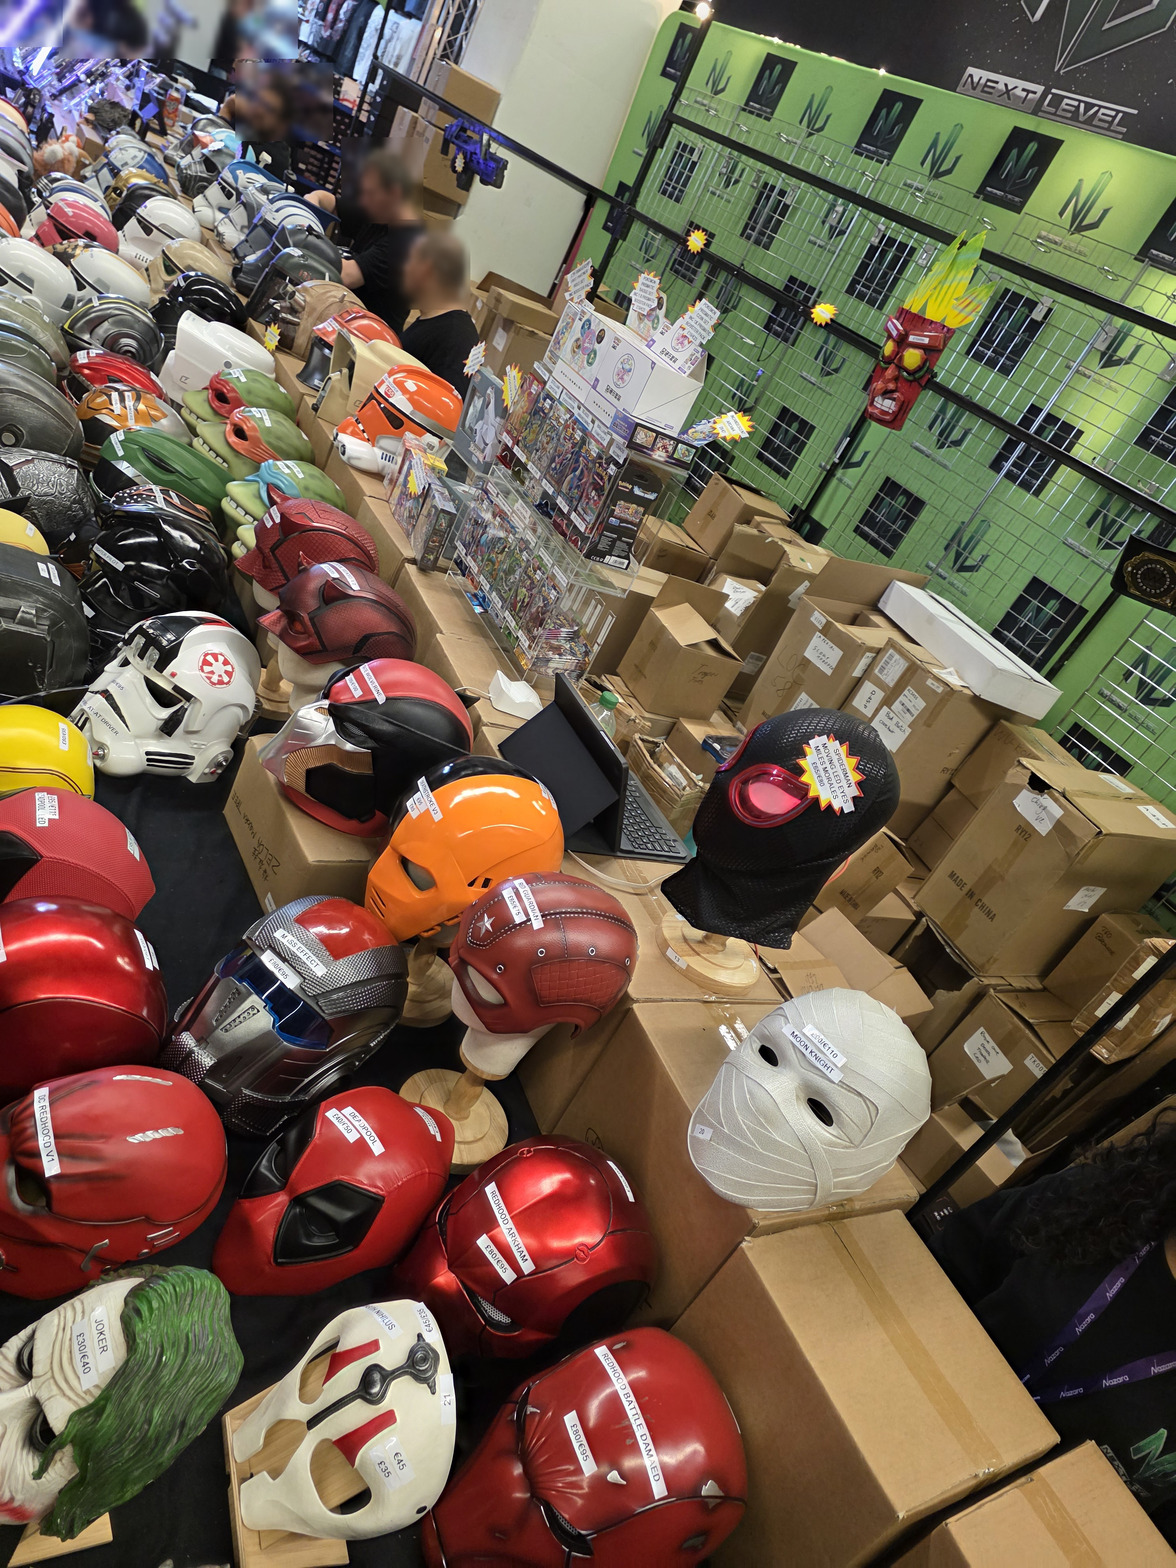
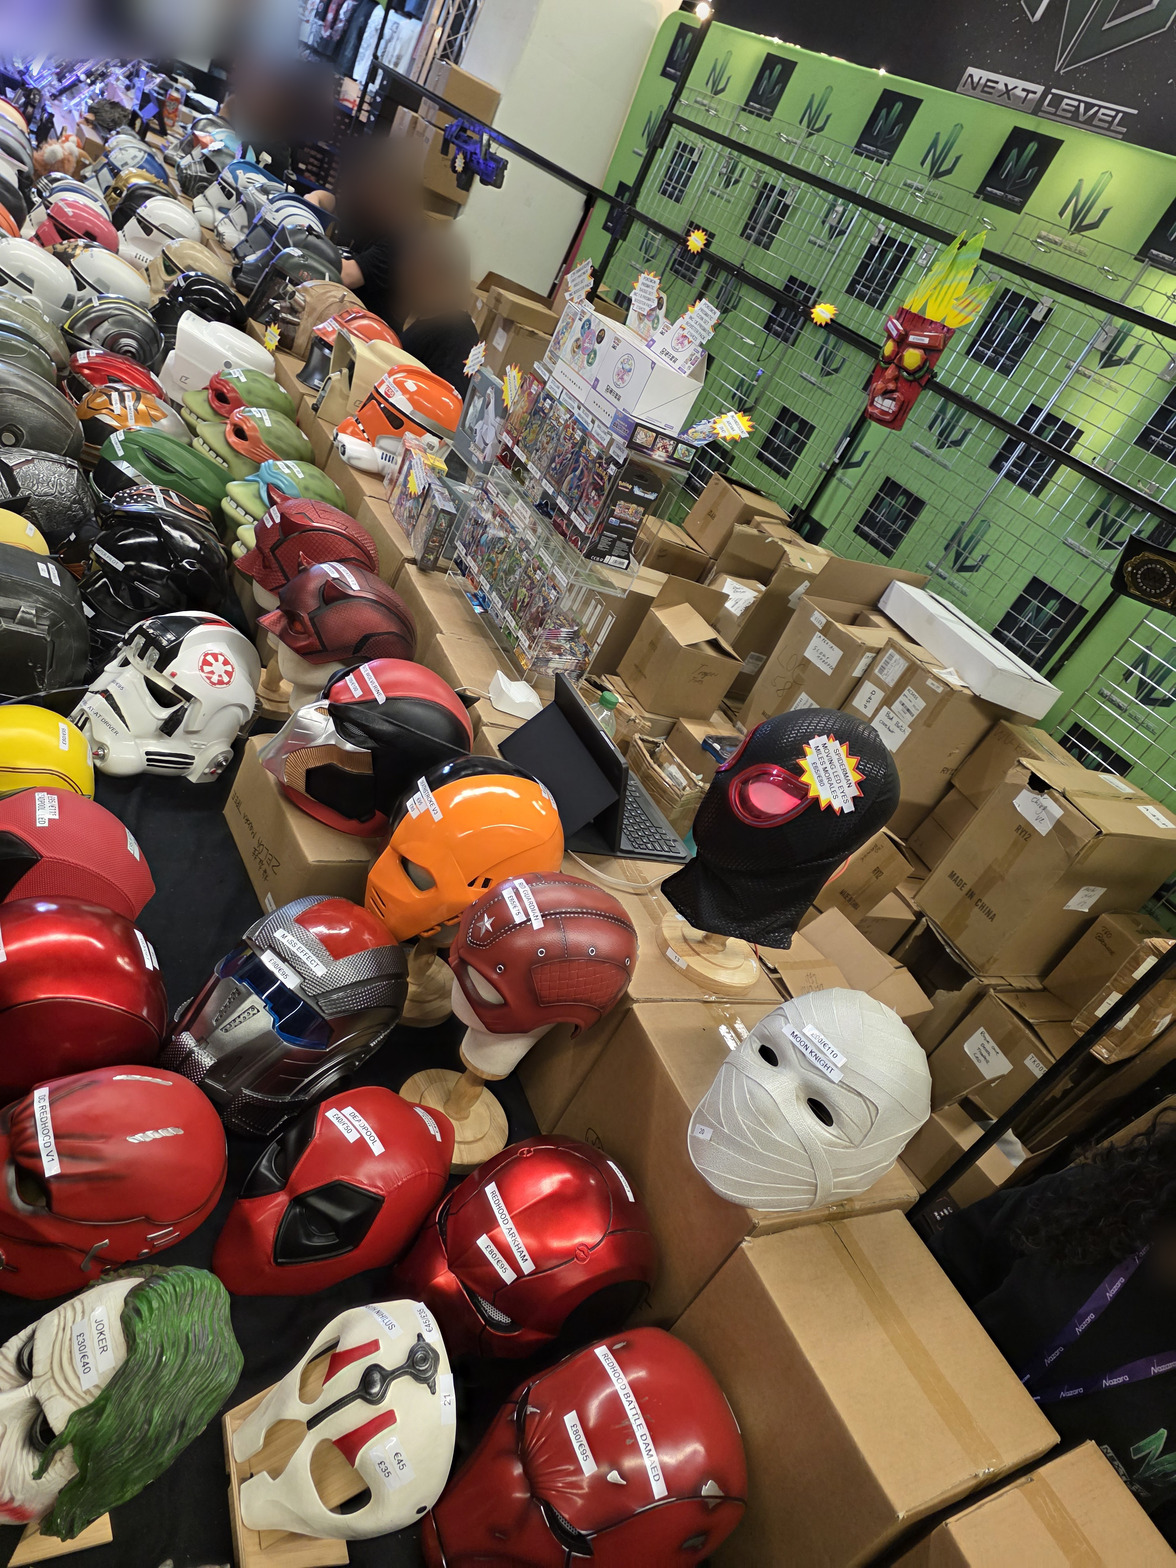
Align with the iX article: partial token log, one disqualified run, image B
- Qwen3.8-27B on Moorhuhn: the server log covers only the first 3.2 hours of
  a run of about 9 hours (31 Aug, 16:20 to 19:32). Its 336,107 tokens are that
  part only. The VS Code chat reaches 21:12 and puts the count at over 390,000
  by then; the total was not recorded. runs.json gets tokens_complete: false
  and a note, the README tables say so next to the number.
- Qwen3.6-27B on Moorhuhn is disqualified: the prompt was sent once more with
  a hint on two bugs, which the test rules do not allow. It stays as a
  reference, its speed values are valid. Finding 1 still showed its old
  proposal of 20 points instead of the confirmed 16.
- Image B: the faces of the people at the stand are blurred further. Only the
  JPEG blocks around the faces were replaced, 3.9 percent of the image; every
  other block is unchanged, so the price tags are pixel-identical and earlier
  results stay comparable. New size and SHA-256 in harness/bilder/README.md.

Changed region(s): [[0.0, 0.0, 0.398, 0.2188], [0.9796, 0.7812, 1.0, 0.8125]]

diff --git a/scripts/make_chart.py b/scripts/make_chart.py
@@ -43,7 +43,7 @@ THEMES = {
 LABELS = {
     # Below its point: above it run the Sonnet 5 reference line and the end of the Pareto front.
     "qwen38-27b-q4xl-moorhuhn-r9700":       (  8,  30, "end",    "Qwen3.8-27B Q4_XL"),
-    "qwen36-27b-q6-moorhuhn-r9700":         (-12,   5, "end",    "Qwen3.6-27B Q6"),
+    "qwen36-27b-q6-moorhuhn-r9700":         (-12,   5, "end",    "Qwen3.6-27B Q6 · disqualified"),
     "qwen38-27b-q6-clairobscure-r9700":     (-12,   5, "end",    "Qwen3.8-27B Q6"),
     # High enough that the second line clears the point.
     "qwen38-flashnext-moorhuhn-evox2":      (  0, -30, "middle", "Qwen3.8-Flash-Next"),

diff --git a/README.md b/README.md
@@ -249,7 +249,7 @@ tokens or more in that log.
 |---|---|--:|--:|--:|---|
 | **Radeon AI PRO R9700** | | | | | |
 | Qwen3.8-27B<br><sub>UD-Q4_K_XL</sub> | Moorhuhn | **33.69** | **31** ✓ | 11 | [log](evidence/logs/qwen38-27b-q4xl-moorhuhn-r9700.log) · [page](https://benchmark.securesight.ai/m/qwen38-27b/en?lauf=qwen38-27b-q4xl-moorhuhn-r9700) |
-| Qwen3.6-27B<br><sub>UD-Q6_K_XL</sub> | Moorhuhn | **33.45** | **16** ✓ | 0 | [log](evidence/logs/qwen36-27b-q6-moorhuhn-r9700.log) · [page](https://benchmark.securesight.ai/m/qwen36-27b/en?lauf=qwen36-27b-q6-moorhuhn-r9700) |
+| Qwen3.6-27B<br><sub>UD-Q6_K_XL · disqualified</sub> | Moorhuhn | **33.45** | **16** ✓ | 0 | [log](evidence/logs/qwen36-27b-q6-moorhuhn-r9700.log) · [page](https://benchmark.securesight.ai/m/qwen36-27b/en?lauf=qwen36-27b-q6-moorhuhn-r9700) |
 | Qwen3.8-27B<br><sub>UD-Q6_K_M</sub> | Clair Obscure | **26.30** | 28 | 0 | [log](evidence/logs/qwen38-27b-q6-clairobscur-r9700.log) · [page](https://benchmark.securesight.ai/m/qwen38-27b/en?lauf=qwen38-27b-q6-clairobscure-r9700) |
 | **AMD AI MAX 395 (AMD Halo)** | | | | | |
 | Qwen3.8-Flash-Next<br><sub>UD-Q4_K_XL</sub> | Moorhuhn | **21.76** | **34** ✓ | 10 | [log](evidence/logs/qwen38-flashnext-moorhuhn-evox2.log) · [page](https://benchmark.securesight.ai/m/qwen38-flash-next/en?lauf=qwen38-flashnext-moorhuhn-evox2) |
@@ -258,7 +258,7 @@ tokens or more in that log.
 | DeepSeek-V4-Flash-0731<br><sub>UD-IQ3_XXS</sub> | Clair Obscure | **7.02** | 16 | 0 | [log](evidence/logs/deepseek-v4-flash-clairobscur-halo.log) · [page](https://benchmark.securesight.ai/m/deepseek-v4-flash-0731/en?lauf=deepseek-v4-flash-clairobscure-evox2) |
 
 <sub><b>Decode</b> median in t/s · <b>Quality</b> rubric of four criteria with 10 points each (game feel, presentation, code quality, scope), ✓ confirmed, — not assessed yet, the others are proposals · <b>Tests</b> files named <code>*.test.*</code> in the delivered project · <b>page</b> the model page with video, playable build and the reason behind every rubric point.<br>
-The Qwen3.8-27B UD-Q4_K_XL log covers the first of two sessions. For the Flash-Next Clair Obscure run the run notes record an older MTP version, but its log shows no draft model being loaded and no draft acceptance line, so this log cannot show what MTP contributed. The Halogen run used another server on Linux, halogen-flash-server 0.6.3 with weights in W4B, and served two requests at a time: 268 of its 652 scored responses ran next to a second one.</sub>
+The Qwen3.8-27B UD-Q4_K_XL log covers only the first 3.2 hours of a run of about 9 hours (31 Aug, 16:20 to 19:32); the rest of the first session and the second session have no server log. Qwen3.6-27B on Moorhuhn is disqualified: the prompt was sent once more together with a hint on two bugs, which the test rules do not allow. It stays as a reference, and its speed values are valid. For the Flash-Next Clair Obscure run the run notes record an older MTP version, but its log shows no draft model being loaded and no draft acceptance line, so this log cannot show what MTP contributed. The Halogen run used another server on Linux, halogen-flash-server 0.6.3 with weights in W4B, and served two requests at a time: 268 of its 652 scored responses ran next to a second one.</sub>
 
 <details>
 <summary>Percentiles, prefill, largest prompt, tokens and GPU time per run</summary>
@@ -267,7 +267,7 @@ The Qwen3.8-27B UD-Q4_K_XL log covers the first of two sessions. For the Flash-N
 
 | Run | n | Decode p10 to p90 | Prefill | Largest prompt | Tokens | GPU min |
 |---|--:|--:|--:|--:|--:|--:|
-| Qwen3.8-27B UD-Q4_K_XL · Moorhuhn | 82 of 108 | 27.83 to 45.34 | 234.86 | 139,720 | 336,107 | 188.9 |
+| Qwen3.8-27B UD-Q4_K_XL · Moorhuhn | 82 of 108 | 27.83 to 45.34 | 234.86 | 139,720 | 336,107<br><sub>first 3.2 h only, over 390,000 by 21:12, total not recorded</sub> | 188.9 |
 | Qwen3.6-27B UD-Q6_K_XL · Moorhuhn | 221 of 409 | 29.02 to 38.25 | 152.71 | 43,238 | 196,543 | 139.1 |
 | Qwen3.8-27B UD-Q6_K_M · Clair Obscure | 30 of 35 | 15.55 to 34.22 | 159.40 | 180,396 | 119,627 | 114.5 |
 | Qwen3.8-Flash-Next · Moorhuhn | 346 of 459 | 17.15 to 26.28 | 77.63 | 69,985 | 786,506 | 798.8 |
@@ -379,7 +379,7 @@ and dodge on tight timing windows.
 <td width="50%" valign="top">
 <a href="https://benchmark.securesight.ai/spiel/qwen36-27b-q6-moorhuhn-r9700/"><img src="media/gif/moorhuhn-qwen36.gif" width="100%" alt="A 2D side scrolling shooter with parallax layers, built by Qwen3.6-27B"></a>
 <b>Moorhuhn</b> · Qwen3.6-27B UD-Q6_K_XL · R9700<br>
-<sub>39 files · 6,903 lines · no tests · 12 <code>fix_*</code> repair scripts · quality 16, confirmed<br>
+<sub>39 files · 6,903 lines · no tests · 12 <code>fix_*</code> repair scripts · quality 16, confirmed · disqualified<br>
 <a href="https://benchmark.securesight.ai/spiel/qwen36-27b-q6-moorhuhn-r9700/">Play</a> · <a href="https://benchmark.securesight.ai/m/qwen36-27b/en?lauf=qwen36-27b-q6-moorhuhn-r9700">Video</a> · <a href="benchmarks/qwen36-27b/moorhuhn-q6/">Source</a></sub>
 </td>
 <td width="50%" valign="top">
@@ -419,7 +419,7 @@ Two runs on the R9700 with the same Moorhuhn prompt:
 | Decode median | **33.69 t/s** | **33.45 t/s** |
 | Test files | 11 with 1,257 lines | none |
 | `fix_*` repair scripts in the project | none | 12 |
-| Quality | 31, confirmed | 20, proposal |
+| Quality | 31, confirmed | 16, confirmed, disqualified |
 
 Tokens per second did not tell these two apart, and they were entirely different afternoons.
 It is not a controlled experiment: model generation, quant, llama.cpp build and speculation

diff --git a/evidence/README.md b/evidence/README.md
@@ -46,7 +46,7 @@ stand at the top. It too carries no prompt text and no response text, only count
 
 | Run | Log | Decode median | n | Prefill median | Tokens, all responses | GPU time |
 |---|---|--:|--:|--:|--:|--:|
-| Qwen3.8-27B UD-Q4_K_XL · R9700 · Moorhuhn | [`qwen38-27b-q4xl-moorhuhn-r9700.log`](logs/qwen38-27b-q4xl-moorhuhn-r9700.log) | 33.69 t/s | 82 | 234.86 t/s | 336,107 | 188.9 min |
+| Qwen3.8-27B UD-Q4_K_XL · R9700 · Moorhuhn | [`qwen38-27b-q4xl-moorhuhn-r9700.log`](logs/qwen38-27b-q4xl-moorhuhn-r9700.log) | 33.69 t/s | 82 | 234.86 t/s | 336,107 (first 3.2 h of about 9 h only) | 188.9 min |
 | Qwen3.6-27B UD-Q6_K_XL · R9700 · Moorhuhn | [`qwen36-27b-q6-moorhuhn-r9700.log`](logs/qwen36-27b-q6-moorhuhn-r9700.log) | 33.45 t/s | 221 | 152.71 t/s | 196,543 | 139.1 min |
 | Qwen3.8-27B UD-Q6_K_M · R9700 · Clair Obscur | [`qwen38-27b-q6-clairobscur-r9700.log`](logs/qwen38-27b-q6-clairobscur-r9700.log) | 26.30 t/s | 30 | 159.40 t/s | 119,627 | 114.5 min |
 | Qwen3.8-Flash-Next UD-Q4_K_XL · AI MAX 395 · Moorhuhn | [`qwen38-flashnext-moorhuhn-evox2.log`](logs/qwen38-flashnext-moorhuhn-evox2.log) | 21.76 t/s | 346 | 77.63 t/s | 786,506 | 798.8 min |

diff --git a/harness/bilder/README.md b/harness/bilder/README.md
@@ -7,7 +7,12 @@ vergleichbar.
 | Datei | Pixel | Bytes | SHA-256 |
 |---|---|--:|---|
[3 lines of base64/hex data omitted]
+
+Seit dem 25.09.2026 sind auf Bild B die Gesichter der Standbesucher stärker unkenntlich gemacht.
+Ersetzt sind nur die 8 × 8 Pixel großen JPEG-Blöcke um die Gesichter, 3,9 Prozent des Bildes. Alle
+anderen Blöcke sind unverändert, die Preisschilder also pixelgleich. Die bis dahin veröffentlichten
+Bildtests liefen mit der vorigen Fassung (779505 Bytes, SHA-256 `6d647d04…`) und bleiben vergleichbar.
 
 Nicht verwenden: die verkleinerte Fassung von Bild B für die Webseite mit 675 × 900 Pixeln.
 Auf ihr sind die Preisschilder kaum lesbar, und die Ergebnisse sind nicht vergleichbar.

diff --git a/docs/messdaten-inventar.md b/docs/messdaten-inventar.md
@@ -37,7 +37,7 @@ echte Arbeit über viele Aufgaben statt `pp512`/`tg128` im Labor. Ausgewertet mi
 
 | Lauf | Hardware | Aufgabe | n | Decode Median | Spanne | Prefill Median (≥500 Tok) | erzeugte Tokens | Generierzeit |
 |---|---|---|---:|---:|---|---:|---:|---:|
-| Qwen3.8-27B UD-Q4_K_XL | R9700 | Moorhuhn | 108 | **34,36** t/s | 22,9–84,9 | 266,95 t/s | 336.107 | 162,1 min |
+| Qwen3.8-27B UD-Q4_K_XL | R9700 | Moorhuhn | 108 | **34,36** t/s | 22,9–84,9 | 266,95 t/s | 336.107 (nur die ersten 3,2 h von rund 9 h, bis 21:12 über 390.000, Gesamtzahl nicht erfasst) | 162,1 min |
 | Qwen3.8-27B UD-Q6 | R9700 | Clair Obscure | 35 | **26,43** t/s | 13,9–42,4 | 167,98 t/s | 119.627 | 88,8 min |
 | Qwen3.8-Flash-Next UD-Q4_K_XL | AI MAX 395 | Clair Obscure | 106 | **10,98** t/s | 9,0–17,0 | 123,65 t/s | 238.371 | 337,8 min |
 | DeepSeek-V4-Flash-0731 UD-IQ3_XXS | AI MAX 395 | Clair Obscure | 152 | **6,32** t/s | 2,8–10,8 | 17,59 t/s | 158.469 | 328,8 min |
